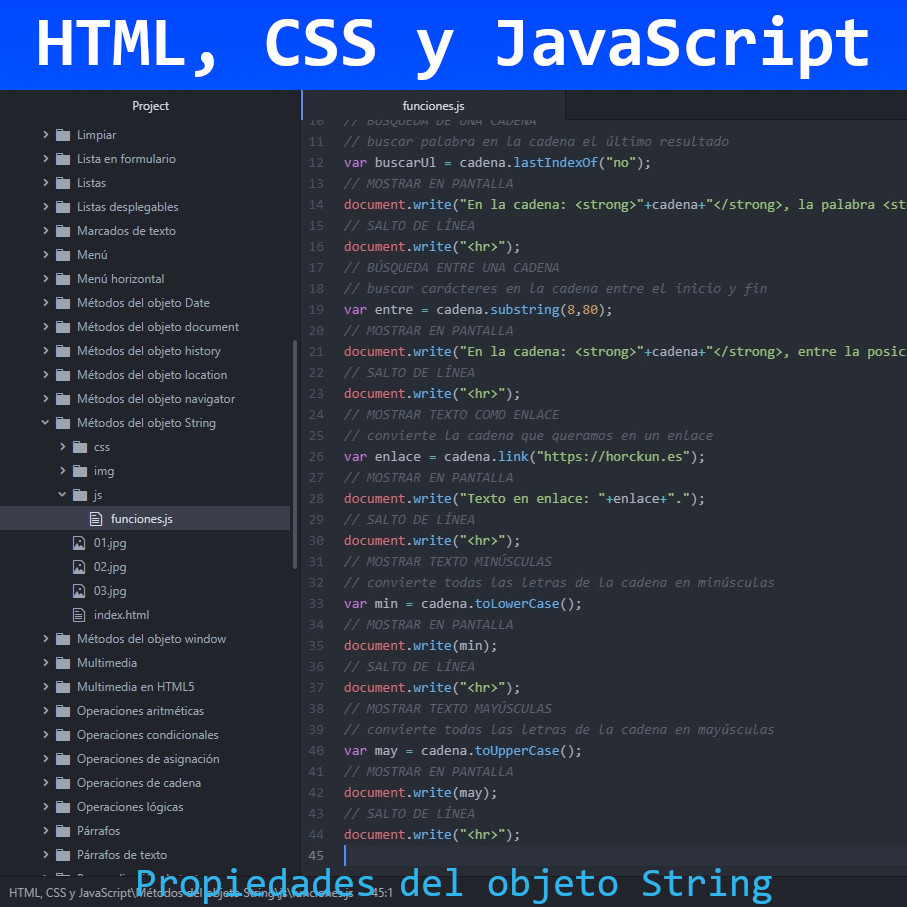
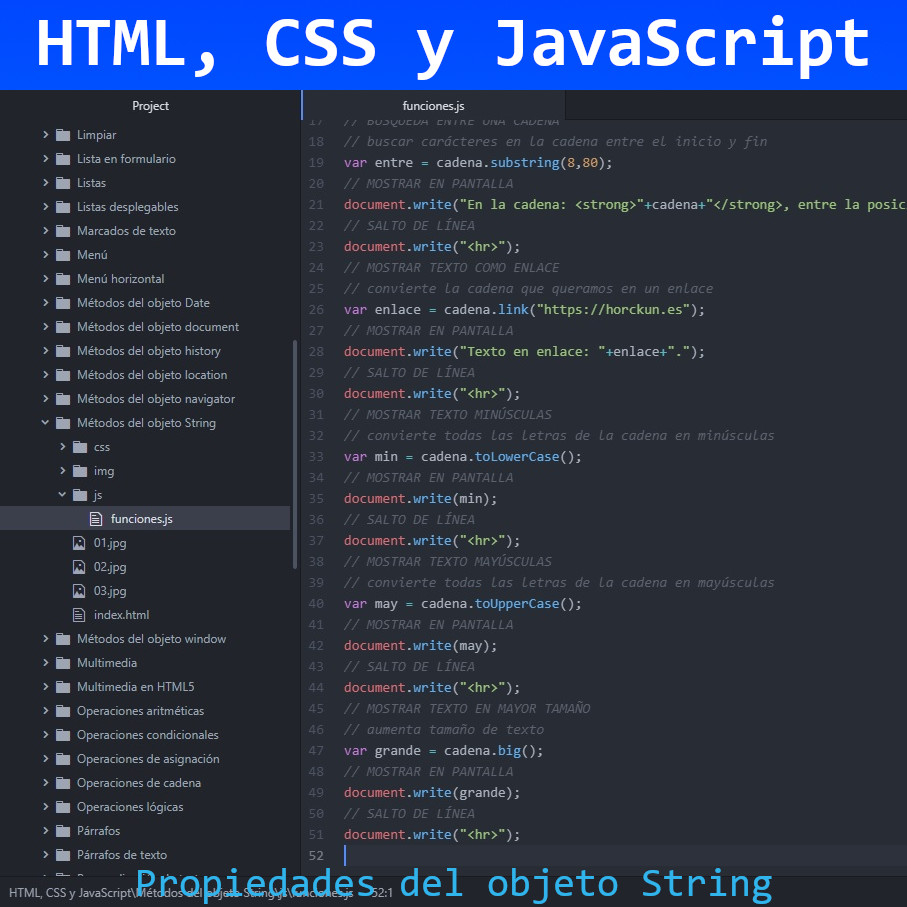
Métodos del objeto String
Métodos del objeto String en JavaScript

diff --git a/HTML, CSS y JavaScript/Métodos del objeto String/js/funciones.js b/HTML, CSS y JavaScript/Métodos del objeto String/js/funciones.js
@@ -42,3 +42,10 @@ var may = cadena.toUpperCase();
 document.write(may);
 // SALTO DE LÍNEA
 document.write("<hr>");
+// MOSTRAR TEXTO EN MAYOR TAMAÑO
+// aumenta tamaño de texto
+var grande = cadena.big();
+// MOSTRAR EN PANTALLA
+document.write(grande);
+// SALTO DE LÍNEA
+document.write("<hr>");
